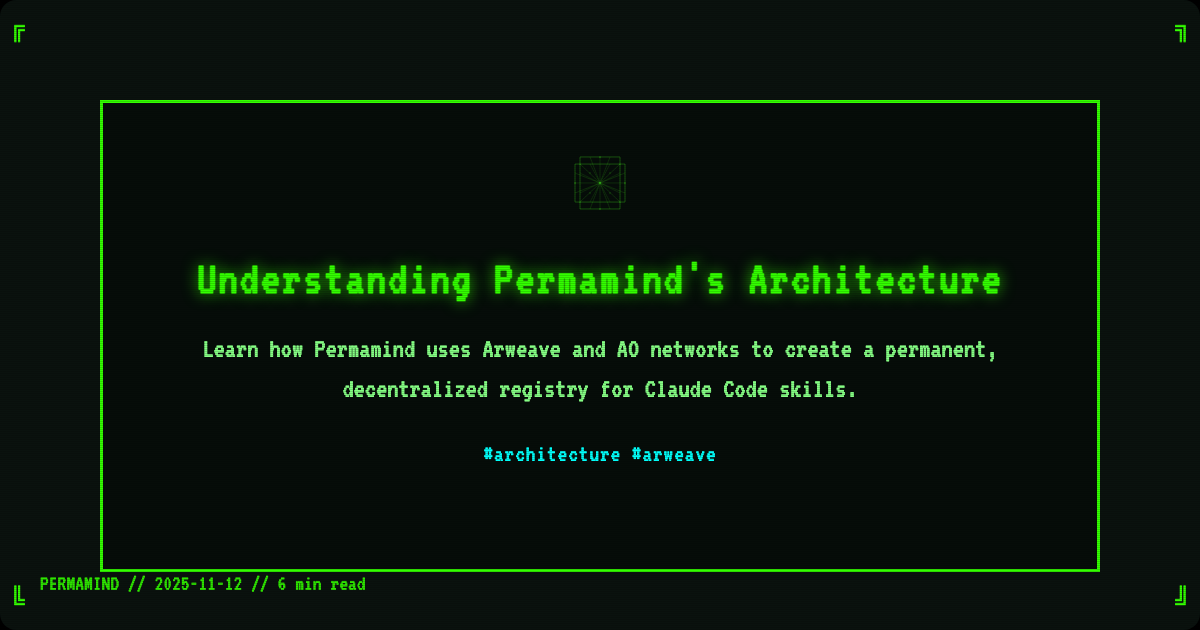
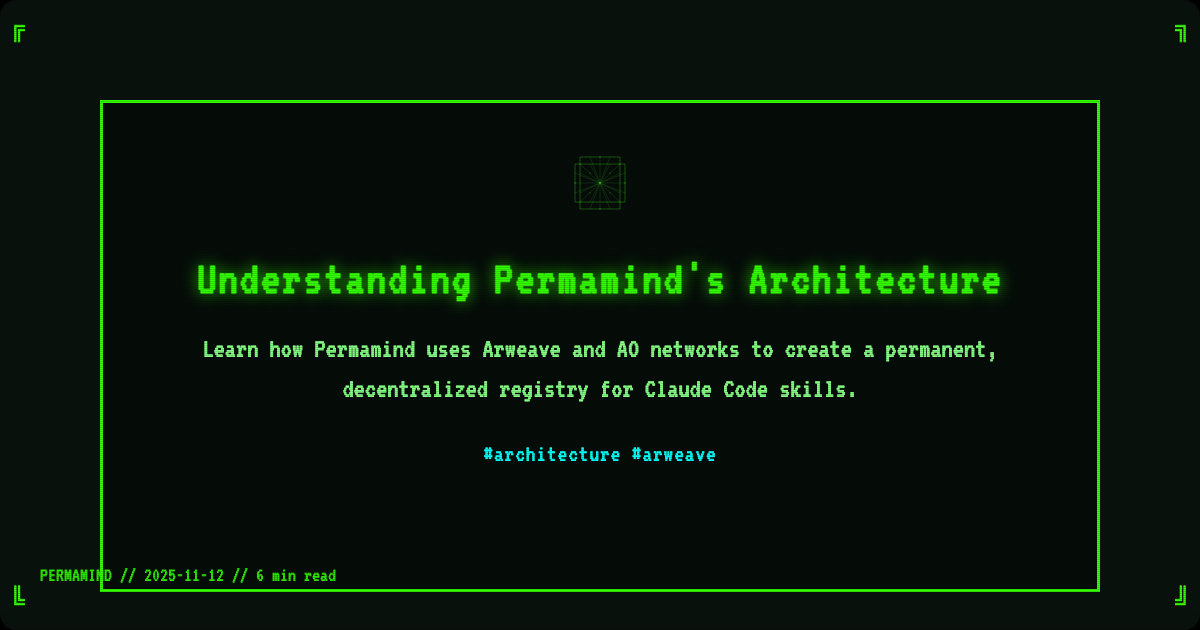
Fix: Increase padding in all blog hero images to prevent overlap
Increased bottom padding in hero images from 80px to 100px and moved
bottom brand text higher (bottom: 40px) to ensure proper spacing
between tag lines and metadata text across all blog posts.

Regenerated all 4 blog preview images with improved spacing:
- getting-started-with-permamind.png (69.04 KB)
- using-permamind-mcp-server.png (70.64 KB)
- understanding-permamind-architecture.png (80.58 KB)
- permaweb-mcp-guide.png (105.53 KB)

🤖 Generated with [Claude Code](https://claude.com/claude-code)

Changed region(s): [[0.0308, 0.9048, 0.925, 0.9651]]

diff --git a/frontend/create-blog-preview.js b/frontend/create-blog-preview.js
@@ -93,7 +93,7 @@ async function createBlogPreview(blogPost) {
 
         .ascii-border {
             border: 3px solid #33ff00;
-            padding: 40px 40px 80px 40px;
+            padding: 40px 40px 100px 40px;
             margin: 60px auto;
             max-width: 1000px;
             text-align: center;
@@ -149,9 +149,9 @@ async function createBlogPreview(blogPost) {
 
         .bottom-brand {
             position: absolute;
-            bottom: 30px;
+            bottom: 40px;
             left: 40px;
-            font-size: 22px;
+            font-size: 20px;
             color: #33ff00;
             opacity: 0.9;
         }
